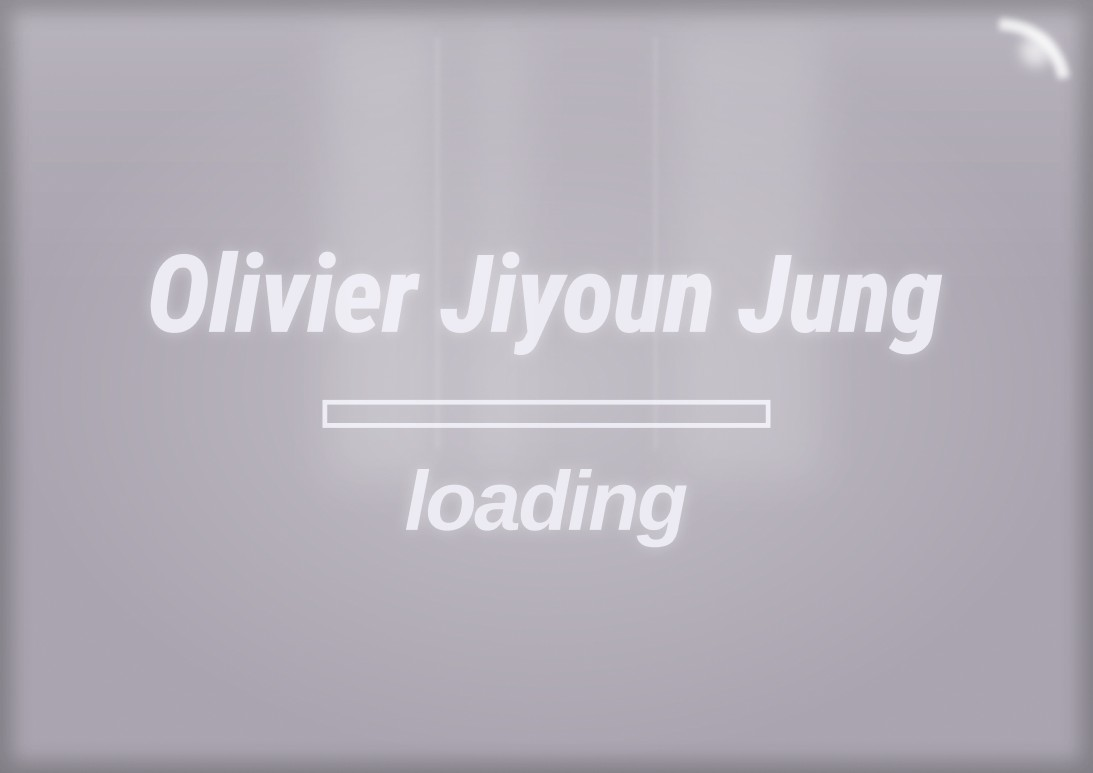
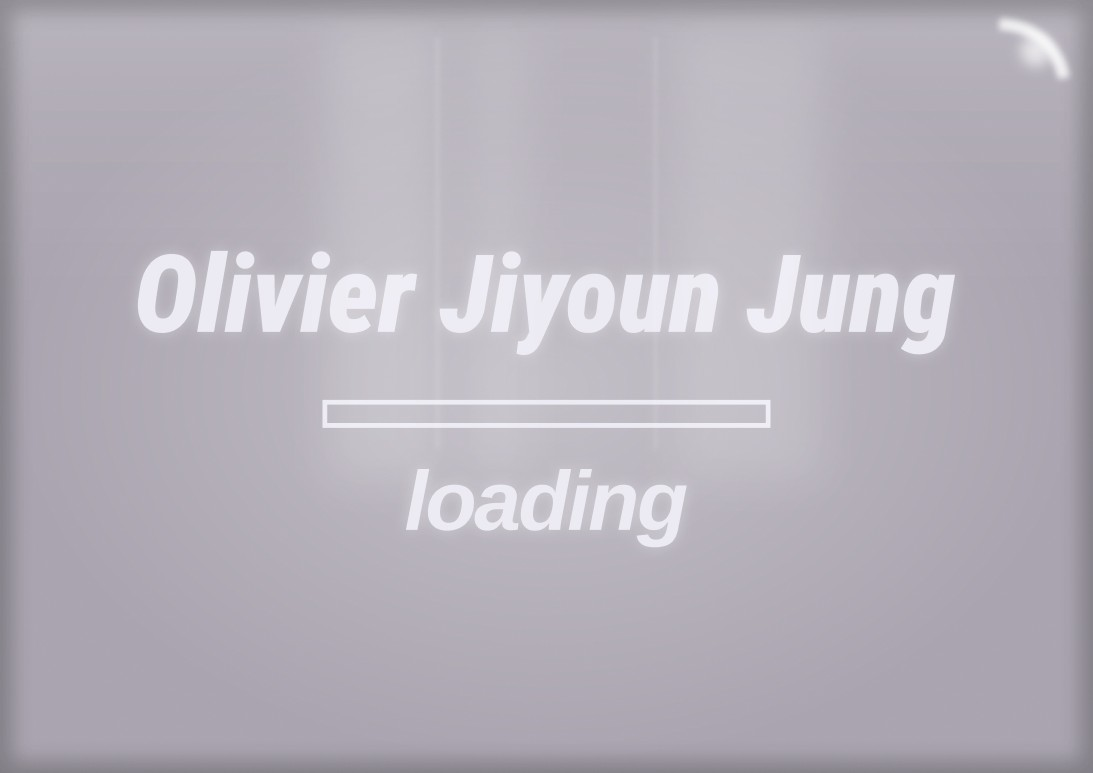
Fit Figma frames to the window, add working scrollbars and mocha cursors
Desktop screens now sit in 1024px Figma-frame stages that scale down to
fit instead of stretching. The Finder scroll arrows, track and thumb
scroll the list, glyphs sit centred in their boxes, the boot name is
set in Roboto Condensed Black Italic, and the cursor is the mocha pack
by @a cup of di.

Changed region(s): [[0.4666, 0.3105, 0.871, 0.4657], [0.1244, 0.3105, 0.3733, 0.4347]]

diff --git a/index.html b/index.html
@@ -32,6 +32,7 @@
 
 <!-- ═══ Home: Finder ═══ -->
 <section id="home" class="view finder-view" aria-label="Home">
+<div class="stage stage-home">
   <div class="win win-home">
     <div class="win-title"><span class="box close" aria-hidden="true"></span><h1>olivier's icons ♪</h1><span class="box zoom" aria-hidden="true"></span><span class="box collapse" aria-hidden="true"></span></div>
     <div class="win-info">7 items, 2026 MB available</div>
@@ -55,10 +56,12 @@
     <button class="a-close" data-close-alert aria-label="Close message"></button>
     <button class="a-ok" data-go="say" aria-label="OK — open the message"></button>
   </div>
+</div>
 </section>
 
 <!-- ═══ About me: PictoChat ═══ -->
 <section id="about" class="view picto-view" aria-label="About me">
+<div class="stage">
   <div class="picto">
     <div class="picto-head"><span>@olivierjyjung</span><button class="xbox" data-home aria-label="Close">✕</button></div>
     <div class="picto-main">
@@ -75,10 +78,12 @@
     </div>
     <img class="keyboard" src="./assets/v2/keyboard.png" alt="">
   </div>
+</div>
 </section>
 
 <!-- ═══ Academic path ═══ -->
 <section id="academic" class="view finder-view" aria-label="Academic path">
+<div class="stage">
   <div class="win">
     <div class="win-title"><button class="box close" data-home aria-label="Close"></button><h2>academic path</h2><span class="box zoom" aria-hidden="true"></span><span class="box collapse" aria-hidden="true"></span></div>
     <div class="win-info">3 items</div>
@@ -93,10 +98,12 @@
       <div class="vs" aria-hidden="true"><i class="up"></i><i class="thumb"></i><i class="down"></i></div><div class="hs" aria-hidden="true"><i class="lt"></i><i class="rt"></i></div><div class="grow" aria-hidden="true"></div>
     </div>
   </div>
+</div>
 </section>
 
 <!-- ═══ Selected works ═══ -->
 <section id="works" class="view finder-view" aria-label="Selected works">
+<div class="stage">
   <div class="win">
     <div class="win-title"><button class="box close" data-home aria-label="Close"></button><h2>selected works ♪</h2><span class="box zoom" aria-hidden="true"></span><span class="box collapse" aria-hidden="true"></span></div>
     <div class="win-info">11 items, 3 with links</div>
@@ -119,10 +126,12 @@
       <div class="vs" aria-hidden="true"><i class="up"></i><i class="thumb"></i><i class="down"></i></div><div class="hs" aria-hidden="true"><i class="lt"></i><i class="rt"></i></div><div class="grow" aria-hidden="true"></div>
     </div>
   </div>
+</div>
 </section>
 
 <!-- ═══ Research & work ═══ -->
 <section id="research" class="view finder-view" aria-label="Research and work">
+<div class="stage">
   <div class="win">
     <div class="win-title"><button class="box close" data-home aria-label="Close"></button><h2>research &amp; work</h2><span class="box zoom" aria-hidden="true"></span><span class="box collapse" aria-hidden="true"></span></div>
     <div class="win-info">4 items, 2 current</div>
@@ -138,10 +147,12 @@
       <div class="vs" aria-hidden="true"><i class="up"></i><i class="thumb"></i><i class="down"></i></div><div class="hs" aria-hidden="true"><i class="lt"></i><i class="rt"></i></div><div class="grow" aria-hidden="true"></div>
     </div>
   </div>
+</div>
 </section>
 
 <!-- ═══ Instruments ═══ -->
 <section id="instruments" class="view finder-view" aria-label="Instruments of the trade">
+<div class="stage">
   <div class="win">
     <div class="win-title"><button class="box close" data-home aria-label="Close"></button><h2>instruments of the trade</h2><span class="box zoom" aria-hidden="true"></span><span class="box collapse" aria-hidden="true"></span></div>
     <div class="win-info">4 groups, 19 tools</div>
@@ -157,10 +168,12 @@
       <div class="vs" aria-hidden="true"><i class="up"></i><i class="thumb"></i><i class="down"></i></div><div class="hs" aria-hidden="true"><i class="lt"></i><i class="rt"></i></div><div class="grow" aria-hidden="true"></div>
     </div>
   </div>
+</div>
 </section>
 
 <!-- ═══ Honors ═══ -->
 <section id="honors" class="view finder-view" aria-label="Honors and awards">
+<div class="stage">
   <div class="win">
     <div class="win-title"><button class="box close" data-home aria-label="Close"></button><h2>honors &amp; awards</h2><span class="box zoom" aria-hidden="true"></span><span class="box collapse" aria-hidden="true"></span></div>
     <div class="win-info">7 items</div>
@@ -179,10 +192,12 @@
       <div class="vs" aria-hidden="true"><i class="up"></i><i class="thumb"></i><i class="down"></i></div><div class="hs" aria-hidden="true"><i class="lt"></i><i class="rt"></i></div><div class="grow" aria-hidden="true"></div>
     </div>
   </div>
+</div>
 </section>
 
 <!-- ═══ Guestbook: rate + write (PictoChat) ═══ -->
 <section id="guestbook" class="view picto-view" aria-label="Guestbook — leave a note">
+<div class="stage">
   <form class="picto" id="gb-form" autocomplete="off">
     <div class="picto-head"><span>@olivierjyjung</span><button type="button" class="xbox" data-home aria-label="Close">✕</button></div>
     <div class="picto-main">
@@ -203,10 +218,12 @@
       <button type="submit" class="hot hot-send" aria-label="Send — sign the guestbook"></button>
     </div>
   </form>
+</div>
 </section>
 
 <!-- ═══ Guestbook: wall ═══ -->
 <section id="wall" class="view finder-view" aria-label="Guestbook entries">
+<div class="stage">
   <div class="win">
     <div class="win-title"><button class="box close" data-home aria-label="Close"></button><h2>guestbook ♪</h2><span class="box zoom" aria-hidden="true"></span><span class="box collapse" aria-hidden="true"></span></div>
     <div class="win-info" id="gb-info">loading entries…</div>
@@ -218,6 +235,7 @@
       <div class="vs" aria-hidden="true"><i class="up"></i><i class="thumb"></i><i class="down"></i></div><div class="hs" aria-hidden="true"><i class="lt"></i><i class="rt"></i></div><div class="grow" aria-hidden="true"></div>
     </div>
   </div>
+</div>
 </section>
 
 <!-- ═══ Say hello: GBA message ═══ -->

diff --git a/site.css b/site.css
@@ -84,7 +84,7 @@ button.box:hover { background: var(--pink); }
 .win-main { display: grid; grid-template-columns: minmax(0, 1fr) 32px; grid-template-rows: auto 32px; margin: 0 8px 8px; }
 .win-body { background: #fff; border: 1.5px solid var(--pink); border-right: 0; overflow-y: auto; overscroll-behavior: contain; scrollbar-width: none; }
 .win-body::-webkit-scrollbar { display: none; }
-.vs, .hs, .grow { position: relative; background: var(--panel); border: 1.5px solid var(--pink); }
+.vs, .hs, .grow { position: relative; user-select: none; background: var(--panel); border: 1.5px solid var(--pink); }
 .hs { border-top: 0; } .grow { border-top: 0; border-left: 0; }
 .vs i, .hs i { position: absolute; width: 32px; height: 32px; background: var(--panel); border: 1.5px solid var(--choc); box-shadow: inset 2px 2px 0 #fff, inset -2px -2px 0 var(--pink); }
 .vs .up { left: -1.5px; top: -1.5px; } .vs .down { left: -1.5px; bottom: -1.5px; }
@@ -197,6 +197,9 @@ button.box:hover { background: var(--pink); }
 /* ═══ Mobile: one long scrolling page ═══ */
 @media (max-width: 720px) {
   .view { padding: 16px; }
+  .stage { width: 100%; display: flex; flex-direction: column; align-items: stretch; }
+  .stage-home .win-home, .stage-home .alert { position: relative; left: auto; top: auto; }
+  .picto-view .stage { align-items: center; }
   body:not(.booting) #site .view { display: flex; min-height: 0; animation: none; }
   body:not(.booting) #site #home { padding-top: 28px; }
   .gba { height: auto; width: min(92vw, 380px); }
@@ -283,4 +286,43 @@ button.box:hover { background: var(--pink); }
   #guestbook .stars { gap: 12px; }
   #guestbook .stars button { width: 44px; height: 40px; }
   #guestbook .kb-wrap { width: 100%; margin-top: 12px; }
+}
+
+/* ═══ Desktop stage: each screen is a Figma frame, scaled down to fit the window ═══ */
+@media (min-width: 721px) {
+  #site .view { padding: 16px; }
+  .stage { width: 1024px; flex: none; display: flex; flex-direction: column; align-items: center; justify-content: center; padding: 32px 0; }
+  .stage-home { position: relative; height: 768px; padding: 0; display: block; }
+  .stage-home .win-home { position: absolute; left: 102px; top: 127px; width: 820px; }
+  .stage-home .alert { left: 658px; top: 550px; }
+  .picto-view .stage { background: var(--bg); }
+  .finder-view .win-body { max-height: 560px; }
+  .picto { width: 1000px; }
+  #guestbook .picto { width: 832px; }
+}
+
+/* live Finder scrollbars */
+.vs i, .hs i { cursor: inherit; }
+.vs .up, .vs .down, .hs .lt, .hs .rt, .vs .thumb { pointer-events: auto; }
+.vs .up:active, .vs .down:active, .hs .lt:active, .hs .rt:active { box-shadow: inset -2px -2px 0 #fff, inset 2px 2px 0 var(--pink); background-color: var(--pink); }
+.vs .thumb { touch-action: none; }
+
+/* zoom box: inner square dead centre */
+.box.zoom::after { left: 50%; top: 50%; transform: translate(-50%, -50%); }
+
+/* mocha cursors ("mocha mouse cursor" by @a cup of di) */
+html, body { cursor: url('./assets/v2/cursor-mocha.png') 1 1, auto; }
+a, button, [data-go], [data-home], .folder, .row, .hot, .vs i, .hs i, input { cursor: url('./assets/v2/cursor-mocha-hand.png') 4 1, pointer; }
+input { cursor: text; }
+
+/* ─── centre every glyph inside its box ─── */
+.vs .up::after, .vs .down::after, .hs .lt::after, .hs .rt::after { left: 50% !important; top: 50% !important; transform: translate(-50%, -50%); }
+.vs .thumb { background-position: center !important; background-size: 16px 16.5px !important; }
+.box.collapse::after { left: 50%; top: 50%; transform: translate(-50%, -50%); }
+.grow::after { left: 50%; top: 50%; transform: translate(-50%, -50%); }
+@media (max-width: 720px) { .vs .thumb { background-size: 10px 11.5px !important; } }
+
+/* guestbook: tool column centred between the memo and the keyboard */
+@media (min-width: 721px) {
+  #guestbook .tools { top: calc(38px + (100% - 38px) / 2); bottom: auto; height: auto; transform: translateY(-50%); }
 }

diff --git a/site.js b/site.js
@@ -160,6 +160,7 @@ function show(id, { buzz = false } = {}) {
   } else {
     $$('#site .view').forEach(v => v.classList.toggle('on', v === el));
     window.scrollTo(0, 0);
+    fit();
   }
   current = id;
   if (id === 'say' && buzz) {
@@ -168,16 +169,6 @@ function show(id, { buzz = false } = {}) {
   }
   if (id === 'wall') loadGuestbook();
 
-/* the Finder scroll thumb follows the list */
-$$('.win-body').forEach(body => {
-  const thumb = body.parentElement.querySelector('.vs .thumb');
-  if (!thumb) return;
-  body.addEventListener('scroll', () => {
-    const track = body.clientHeight - 64 - thumb.offsetHeight - 8;
-    const r = body.scrollTop / Math.max(1, body.scrollHeight - body.clientHeight);
-    thumb.style.top = (38.5 + Math.max(0, track) * r) + 'px';
-  }, { passive: true });
-});
 }
 const goHome = () => (isMobile() ? window.scrollTo({ top: 0, behavior: 'smooth' }) : show('home'));
 
@@ -303,3 +294,58 @@ $('#gb-form').addEventListener('submit', e => {
 });
 
 loadGuestbook();
+
+/* ─── desktop: scale each Figma frame down to fit the window ─── */
+function fit() {
+  $$('.stage').forEach(st => {
+    if (isMobile()) { st.style.zoom = ''; return; }
+    if (!st.offsetParent) return;
+    st.style.zoom = 1;
+    const r = st.getBoundingClientRect();
+    st.style.zoom = Math.min(1, (innerHeight - 32) / r.height, (innerWidth - 32) / r.width);
+  });
+}
+addEventListener('resize', fit);
+addEventListener('load', fit);
+if (document.fonts) document.fonts.ready.then(fit);
+
+/* ─── working Finder scrollbars ─── */
+$$('.win-main').forEach(main => {
+  const body = main.querySelector('.win-body');
+  const vs = main.querySelector('.vs'), thumb = vs.querySelector('.thumb');
+  const up = vs.querySelector('.up'), down = vs.querySelector('.down');
+  const lt = main.querySelector('.hs .lt'), rt = main.querySelector('.hs .rt');
+  const range = () => Math.max(0, vs.clientHeight - 64 - thumb.offsetHeight - 6);
+  const sync = () => {
+    const max = body.scrollHeight - body.clientHeight;
+    thumb.style.top = (38.5 + range() * (max > 0 ? body.scrollTop / max : 0)) + 'px';
+  };
+  body.addEventListener('scroll', sync, { passive: true });
+  addEventListener('resize', sync);
+  const hold = (el, fn) => {
+    let t;
+    const stop = () => clearInterval(t);
+    el.addEventListener('pointerdown', e => { e.preventDefault(); fn(); t = setInterval(fn, 60); });
+    ['pointerup', 'pointerleave', 'pointercancel'].forEach(ev => el.addEventListener(ev, stop));
+  };
+  hold(up, () => body.scrollBy({ top: -40 }));
+  hold(down, () => body.scrollBy({ top: 40 }));
+  hold(lt, () => body.scrollBy({ left: -40 }));
+  hold(rt, () => body.scrollBy({ left: 40 }));
+  vs.addEventListener('pointerdown', e => {           // click the track to page
+    if (e.target !== vs) return;
+    const tr = thumb.getBoundingClientRect();
+    body.scrollBy({ top: (e.clientY < tr.top ? -1 : 1) * body.clientHeight * 0.9, behavior: 'smooth' });
+  });
+  thumb.addEventListener('pointerdown', e => {        // drag the thumb
+    e.preventDefault(); e.stopPropagation();
+    thumb.setPointerCapture(e.pointerId);
+    const z = parseFloat(getComputedStyle(main.closest('.stage') || main).zoom) || 1;
+    const y0 = e.clientY, s0 = body.scrollTop, max = body.scrollHeight - body.clientHeight;
+    const move = ev => { body.scrollTop = s0 + ((ev.clientY - y0) / z) / Math.max(1, range()) * max; };
+    const end = () => { thumb.removeEventListener('pointermove', move); thumb.removeEventListener('pointerup', end); };
+    thumb.addEventListener('pointermove', move);
+    thumb.addEventListener('pointerup', end);
+  });
+  sync();
+});
